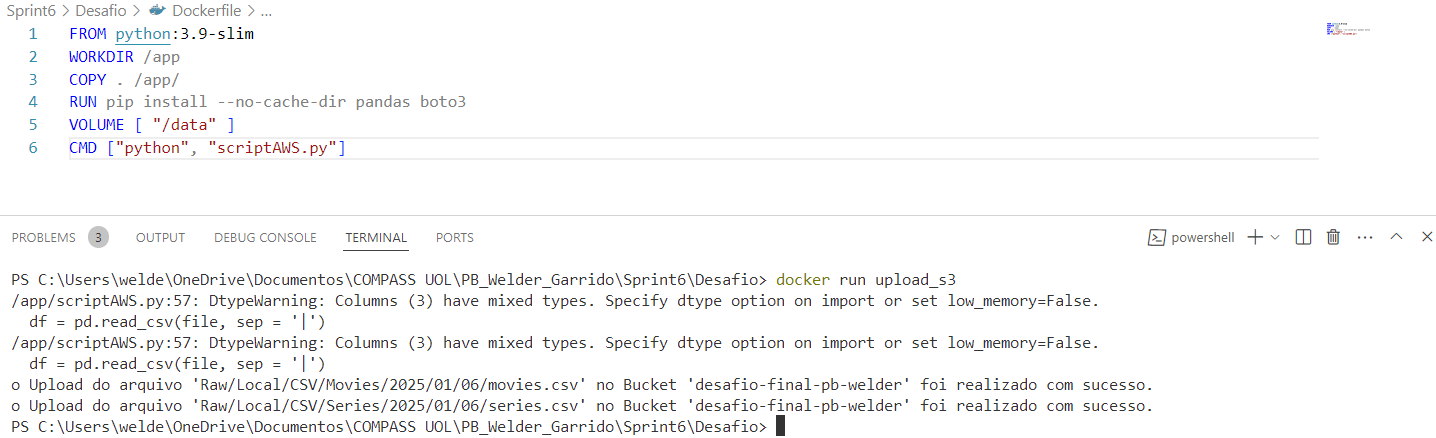
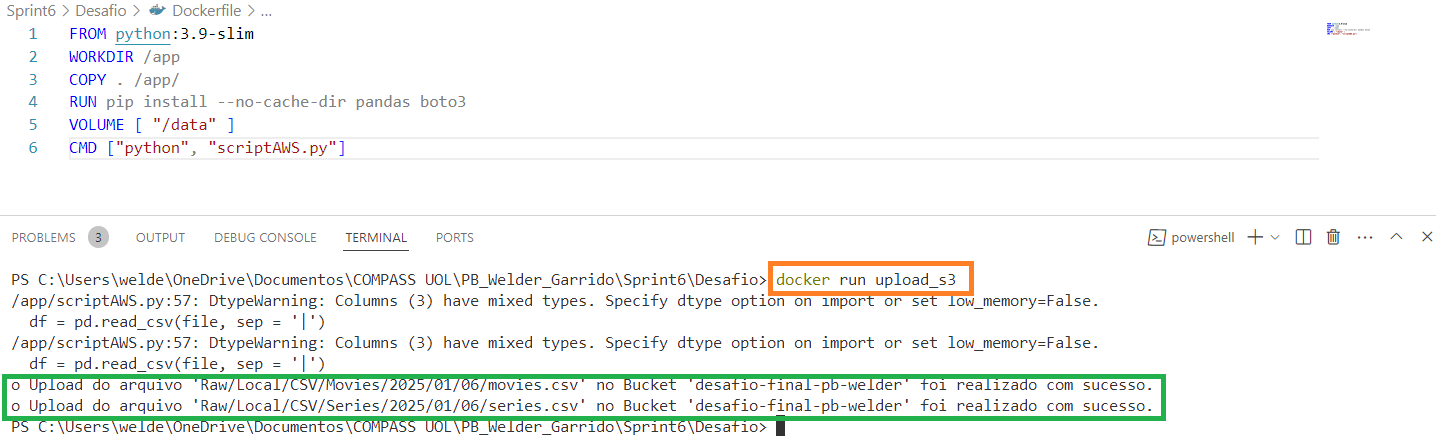
evidências de execução do desafio

Changed region(s): [[0.0, 0.8311, 0.8273, 0.9795], [0.5209, 0.5936, 0.7047, 0.6826]]

diff --git a/Sprint6/Desafio/README.md b/Sprint6/Desafio/README.md
@@ -2,16 +2,16 @@
 O objetivo é praticar a combinação de conhecimentos vistos no programa e fazer um mix de tudo que já foi dito.  
 
 # Instruções Gerais  
-ENTREGA 1
+**ENTREGA 1**
 
-Ingestão Batch:
+**Ingestão Batch:**
 	
 a ingestão dos arquivos CSV em Bucket Amazon S3 RAW Zone. Nesta etapa do desafio deve ser construído um 
 código Python que será executado dentro de um container Docker para carregar os dados locais dos arquivos 
 disponibilizados para a nuvem. Nesse caso utilizaremos, principalmente, a lib boto3 como parte do processo
 de ingestão via batch para geração de arquivo CSV.  
 	
-1. Implementar código Python:
+1. **Implementar código Python:**
 	- ler os 2 arquivos (movies.csv e series.csv) no formato CSV inteiros, ou seja, sem filtrar os dados.
 	- utilizar a lib boto3 para carregar os dados para a AWS 
 	- acessar a AWS e gravar no S3, no Bucket definido como RAW Zone
@@ -25,11 +25,89 @@ de ingestão via batch para geração de arquivo CSV.
 		
 		S3:\\data-lake-do-fulano\Raw\Local\CSV\Series\2022\05\02\series.csv 
 		
-2. Criar container Docker com um volume para armazenar os arquivos CSV e executar processo Python implementado.
+2. **Criar container Docker com um volume para armazenar os arquivos CSV e executar processo Python implementado.**
 
-3. Executar localmente o container docker para realizar a carga dos dados ao S3.
+3. **Executar localmente o container docker para realizar a carga dos dados ao S3.**  
 
+# Códigos e Execução  
+- Para fazer o envio dos arquivos ao bucket do S3 foi usado o script abaixo
+```python 
+#Função para enviar arquivos para um bucket já existente - criada na Sprint5  
 
+def enviar_arquivo(aws_access_key_id, aws_secret_access_key, session_token, bucket_name, file_path, object_name):
+    
+    s3 = boto3.client('s3', 
+                        aws_access_key_id = aws_access_key_id,
+                        aws_secret_access_key = aws_secret_access_key,
+                        aws_session_token = session_token)
+                        
+    try:
+        s3.upload_file(file_path, bucket_name, object_name)
+        print(f"o Upload do arquivo '{object_name}' no Bucket '{bucket_name}' foi realizado com sucesso.")
+    
+    #Possíveis erros:
+    except FileNotFoundError:
+        print(f"Erro: O arquivo '{object_name}'não foi encontrado.")
+    
+    except NoCredentialsError:
+        print('Erro: As credenciais da AWS estão inválidas ou não foram encontradas.')
+
+    except Exception as exc:
+        print(f"Erro Inesperado: {exc}")
+```
+
+- Para que o caminho fique no formato solicitado, foi criada a função a seguir:
+```python
+#Construindo o caminho conforme padrão solicitado
+
+def buildS3Path(file, source, bucketName = 'desafio-final-pb-welder'):
+    date = datetime.now()
+    year = date.year
+    month = date.month
+    day = date.day 
+
+    #Caminho
+    path = f"Raw/Local/CSV/{source}/{year}/{month:02d}/{day:02d}/{file}"
+
+    return path 
+```    
+O código completo pode ser encontrado [aqui](../Desafio/scriptAWS.py).  
+
+O desafio requer que o código do script python seja executado em um container docker. Para a criação do container Docker foi usado o código do Dockerfile a seguir:  
+```Docker
+FROM python:3.9-slim 
+WORKDIR /app
+COPY . /app/ 
+RUN pip install --no-cache-dir pandas boto3
+VOLUME [ "/data" ]
+CMD ["python", "scriptAWS.py"]
+```
+
+O Dockerfile contém informações para criar um container docker que executará o script 'scriptAWS.py' em um volume. Em particular, o comando 'COPY .' copia todos os arquivos do diretório atual para o volume do container. Para a execução correta é necessário que os arquivos movies.csv, series.csv e scriptAWS.py estejam no diretório atual.  
+
+A imagem a seguir ilustra a criação do container.  
+
+![criação do container](../Evidencias/construcao_container.png)  
+
+Ao ser executado, podemos notar que o script retornou sucesso ao enviar os arquivos para o bucket **desafio-final-pb-welder**.  
+
+![execução container](../Evidencias/execucao_container.png)  
+
+Agora resta conferir se o caminho criado está correto e se os arquivos foram enviados.  
+![buckets](../Evidencias/buckets.png)  
+
+![path](../Evidencias/path1.png)
+![path](../Evidencias/path2.png)
+![path](../Evidencias/path3.png)
+![path](../Evidencias/path4.png)
+![path](../Evidencias/path5.png)
+![path](../Evidencias/path6.png)
+![path](../Evidencias/path7.png)
+![path](../Evidencias/path8.png)
+![path](../Evidencias/path9.png)
+![path](../Evidencias/path10.png)
+![path](../Evidencias/path11.png)
+![path](../Evidencias/path12.png)
 
 
 
